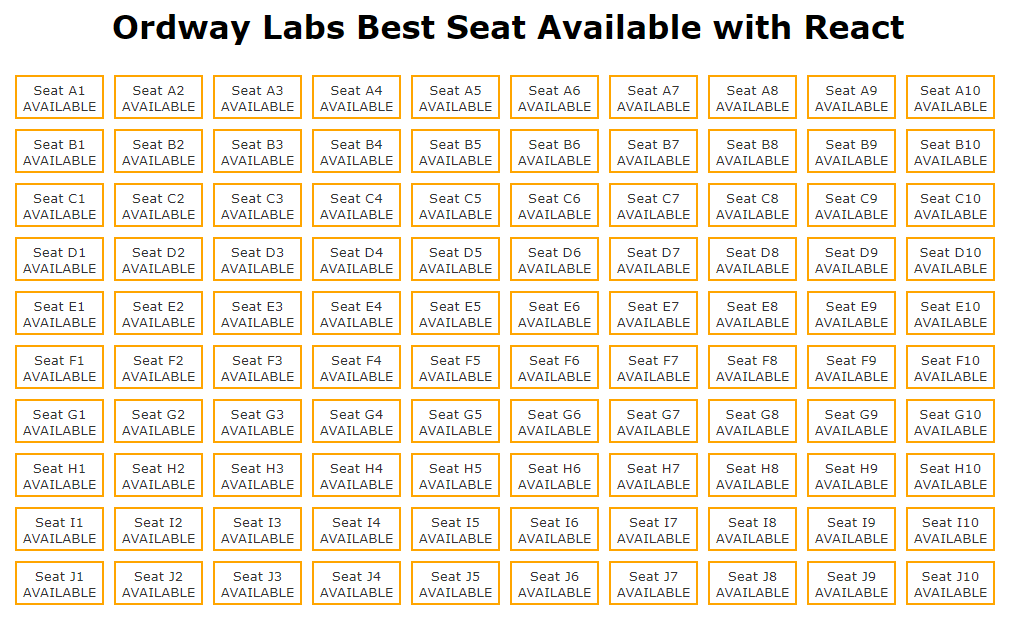
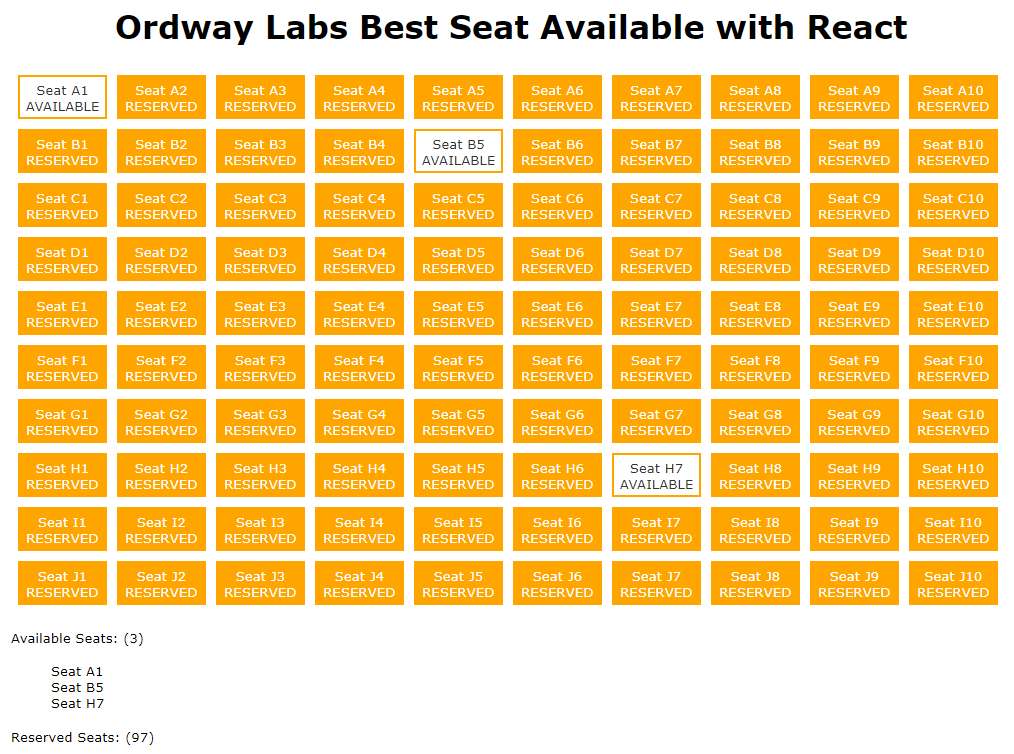
Added reserved and available seats as per JSON.  Updated image

diff --git a/app/controllers/venue_controller.rb b/app/controllers/venue_controller.rb
@@ -4,6 +4,7 @@ class VenueController < ApplicationController
   def index
     @rows = Ordway::H[:venue][:layout][:rows]
     @columns = Ordway::H[:venue][:layout][:columns]
+    @available_seats = Ordway.available_seats
   end
 
 end

diff --git a/app/models/ordway.rb b/app/models/ordway.rb
@@ -27,4 +27,10 @@ module Ordway
         }
     }
   }
+  def self.available_seats
+    Ordway::H[:seats].values.map do |seat|
+      seat[:row].upcase.to_s + seat[:column].to_s
+    end
+  end
+
 end
